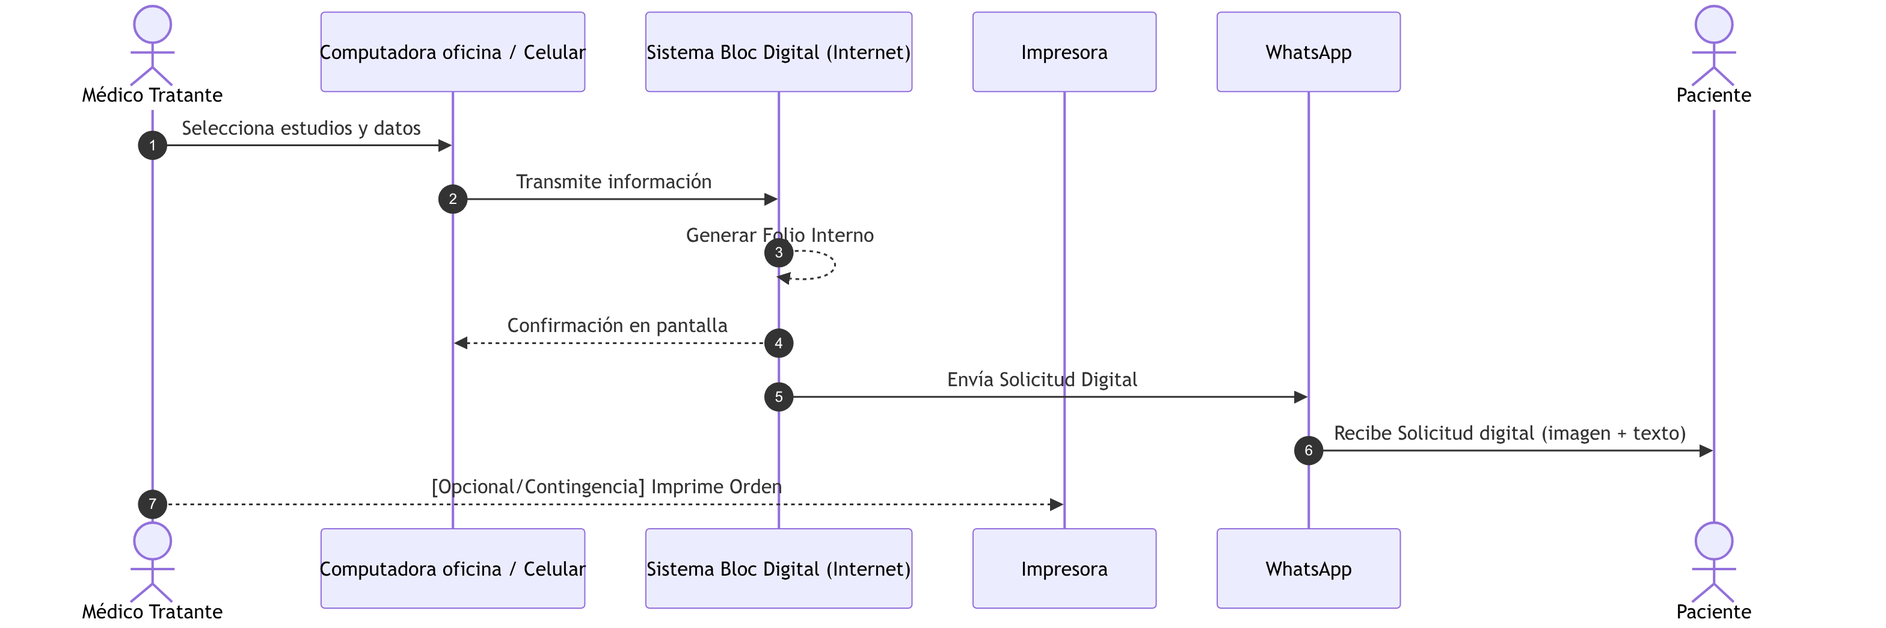
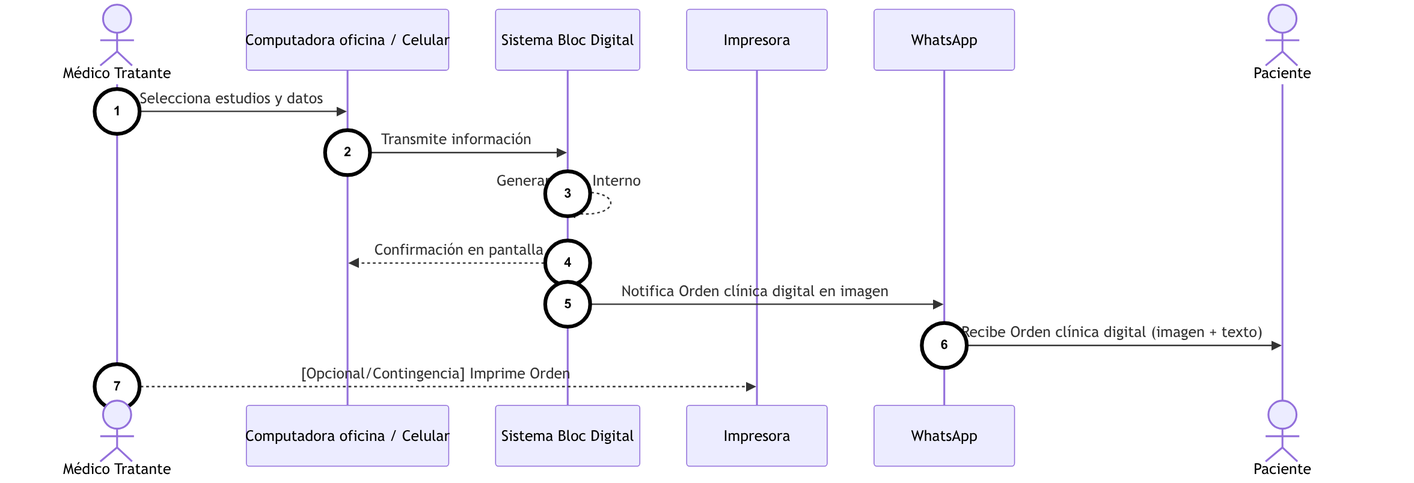
Version 2.6, Refinando scope de resumen y propuesta para laesh se homologaron terminos , se incluyeron 3 diagramas mas para WA.

diff --git a/portafolio-dev-2026/blocklabgd/contrato-laesh/v1.0/Resumen_Oferta_Servicios.md b/portafolio-dev-2026/blocklabgd/contrato-laesh/v1.0/Resumen_Oferta_Servicios.md
@@ -4,7 +4,7 @@
 
 Este documento presenta las cuatro modalidades de contratación disponibles. Las propuestas están diseñadas para permitir a "EL CLIENTE" elegir el alcance tecnológico y funcional que mejor se adapte a su presupuesto y urgencia operativa.
 
-*(Nota Legal: Independientemente de la opción elegida, toda la documentación contractual se ejecuta utilizando un Contrato Base Modular, el cual protege las garantías, previene retrasos y garantiza el cumplimiento fiscal para ambas partes).*
+*(Nota Legal: Independientemente de la opción elegida, toda la documentación contractual se ejecuta utilizando un Contrato Base Modular, el cual protege las garantías, previene retrasos y promueve el cumplimiento fiscal para ambas partes).*
 
 ---
 
@@ -26,20 +26,22 @@ Este documento presenta las cuatro modalidades de contratación disponibles. Las
 *   **Esquema de Pago (2 Hitos):** 50% Anticipo ($15,000) / 50% Firma de Aceptación ($15,000).
 *   **Tiempo de Entrega:** 2 Meses (60 días naturales).
 *   **Garantía:** 30 días naturales (Inicia a partir de la firma de Aceptación).
-*   **Alcance Funcional:** Todo lo de la Opción 1, **MÁS** un Portal de Pacientes. El personal deposita los resultados (PDF) en una carpeta de la computadora; el sistema los procesa y permite al paciente descargarlos en la página web. Adicionalmente, se envía la imagen del resultado de manera automática por WhatsApp. **Esto representa un ahorro de tiempo sustancial, ya que automatiza la entrega para absolutamente TODOS los pacientes del laboratorio (tanto de mostrador como referidos).**
-*   **Alcance Tecnológico:** Incluye una base de datos segura para almacenar historiales, vinculación directa a la **Plataforma Oficial de WhatsApp (Meta)** para el envío automatizado de los estudios, e instalación del software de **Bandeja Omnicanal (Chatwoot)** para la atención manual. Cuenta con mecanismo **"WhatsApp Stopper"** de seguridad financiera (Corte automático de comunicación con Meta para evitar sobrecostos).
+*   **Alcance Funcional:** Todo lo de la Opción 1, **MÁS** un Portal de Pacientes. El personal deposita los resultados (PDF) en una carpeta de la computadora; el sistema los procesa y permite al paciente descargarlos en la página web. Adicionalmente, se notifica la imagen del resultado de manera automática por WhatsApp. **Esto representa un ahorro de tiempo sustancial, ya que automatiza la entrega para la gran mayoría de los pacientes del laboratorio (tanto de mostrador como referidos).**
+*   **Alcance Tecnológico:** Incluye una base de datos segura para almacenar historiales, vinculación directa a la **Plataforma Oficial de WhatsApp (Meta)** para la notificación automatizada de los estudios, e instalación del software de **Bandeja Omnicanal (Chatwoot)** para la atención manual. Cuenta con mecanismo **"WhatsApp Stopper"** de seguridad financiera (Corte automático de comunicación con Meta para evitar sobrecostos).
+*   **Reglas del Canal WhatsApp:** El canal automatizado (API Oficial) está optimizado para la notificación de resultados y la atención de consultas entrantes. Debido a las políticas de protección anti-spam de Meta, la plataforma restringe el envío proactivo de mensajes libres si el paciente no ha interactuado en las últimas 24 horas. Para mitigar esta restricción, el sistema incluye botones de acción (Ej. `[Ver Horarios y Ubicación]`) en las notificaciones enviadas; si el paciente oprime el botón, habilita inmediatamente al personal de recepción para brindarle atención personalizada por hasta 24 horas. Este límite de tiempo se reinicia y te da otras 24 horas libres cada vez que el paciente vuelve a escribir. Para seguimientos proactivos no solicitados o campañas comerciales en frío, el laboratorio deberá utilizar su canal de WhatsApp tradicional de forma independiente.
  
 
 ---
 
-### Opción 3: Bloc Digital (Aplicación Web de Solicitudes)
+### Opción 3: Bloc Digital de Solicitudes Clínicas
 *   **Inversión Total:** $60,000.00 MXN
 *   **Esquema de Pago (3 Hitos):** 30% Anticipo ($18,000) / 30% Despliegue a Producción ($18,000) / 40% Firma de Aceptación ($24,000).
 *   **Tiempo de Entrega:** 2.5 Meses (75 días naturales).
 *   **Garantía:** 30 días naturales (Inicia a partir de la firma de Aceptación).
-*   **Alcance Funcional:** Automatización completa para crear y rastrear las órdenes de laboratorio. Incluye un catálogo de estudios, un portal rápido para que los doctores hagan la **solicitud médica digital**, y una pantalla donde pueden ver si sus pacientes ya fueron atendidos. Como único punto de contacto automatizado, **el paciente recibirá su orden digital en imagen directamente en su WhatsApp**. Adicionalmente, cuenta con un portal para que recepción controle el estatus (Remitido, En Atención, Resultados Listos, Cerrada) y un **Módulo de Reportes** con estadísticas básicas.
-*   **Consideración Operativa (Limitante):** Al no incluir el módulo de entrega automatizada, la recepción sigue obligada a entregar los resultados finales de forma 100% manual. **IMPORTANTE:** Debido a las reglas anti-spam de Meta (que bloquean el chat libre a las 24 horas si el paciente no responde), la recepcionista no podrá enviarle la imagen de resultado por el nuevo canal automatizado. Tendrá que enviarlos manualmente utilizando el **WhatsApp Web de los números actuales de la clínica**. Esto significa que el paciente recibirá su orden inicial desde el número nuevo automatizado, y sus resultados finales desde el número tradicional. Esta desconexión mantiene el cuello de botella en mostrador.
+*   **Alcance Funcional:** Automatización completa para crear y rastrear las órdenes de laboratorio. Incluye un catálogo de estudios, un portal rápido para que los médicos tratantes hagan la **Orden clínica digital**, y una pantalla donde pueden ver si sus pacientes ya fueron atendidos. Como único punto de contacto automatizado, **se le notificará al paciente su Orden clínica digital en imagen directamente en su WhatsApp**. Adicionalmente, cuenta con un portal para que recepción controle el estatus (Remitido, En Atención, Resultados Listos, Cerrada) y un **Módulo de Reportes** con estadísticas básicas.
+*   **Consideración Operativa (Limitante):** Al no incluir el módulo de entrega automatizada, la recepción sigue obligada a entregar los resultados finales de forma 100% manual. **IMPORTANTE:** Debido a las reglas anti-spam de Meta (que bloquean el chat libre a las 24 horas si el paciente no responde), la recepcionista no podrá notificarle el resultado de Orden clínica digital en imagen por el nuevo canal automatizado. Tendrá que notificarlos manualmente utilizando el **WhatsApp Web de los números actuales de la clínica**. Esto significa que el paciente recibirá su orden inicial desde el número nuevo automatizado, y sus resultados finales desde el número tradicional. Esta desconexión mantiene el cuello de botella en mostrador.
 *   **Alcance Tecnológico:** Sistema en la nube interno, perfiles de usuario, roles de seguridad, generación dinámica de PDFs, instalación de **Bandeja Omnicanal (Chatwoot)** y **"WhatsApp Stopper"** de seguridad financiera. *(Nota: Meta exige un dominio público para verificar empresas; si la clínica no tiene sitio web, se montará una "Landing Page" básica de contacto sin costo extra para cumplir este requisito).*
+*   **Reglas del Canal WhatsApp:** El canal automatizado (API Oficial) está optimizado para notificaciones y atención de consultas entrantes. Debido a las políticas anti-spam de Meta, se restringe el envío proactivo de mensajes libres si el paciente no ha interactuado en las últimas 24 horas. Para mitigar esta restricción, el sistema incluye botones de acción (Ej. `[Ver Horarios y Ubicación]`) en la notificación de la orden; si el paciente lo oprime, habilita inmediatamente a recepción para brindarle atención personalizada por hasta 24 horas. Este límite de tiempo se reinicia y te da otras 24 horas libres cada vez que el paciente vuelve a escribir. Para seguimientos proactivos o campañas comerciales en frío, se deberá utilizar el WhatsApp tradicional.
  
 
 ---
@@ -49,9 +51,10 @@ Este documento presenta las cuatro modalidades de contratación disponibles. Las
 *   **Esquema de Pago (3 Hitos):** 30% Anticipo ($24,000) / 30% Despliegue a Producción ($24,000) / 40% Firma de Aceptación ($32,000).
 *   **Tiempo de Entrega:** 4 Meses (120 días naturales).
 *   **Garantía:** 45 días naturales (Inicia a partir de la firma de Aceptación).
-*   **Alcance Funcional:** Solución completa que integra el **Bloc Digital** y el **Sitio Web PLUS (Resultados Automatizados)**. El doctor genera la orden, el paciente la recibe por WhatsApp y acude a la clínica. Al terminar los estudios, el químico guarda el PDF en su computadora, y el sistema envía el resultado al paciente por WhatsApp como imagen para su instantánea visualización, y lo sube en PDF a la web. Es un proceso automatizado que no pierde la calidez humana, ya que el sistema y la recepcionista comparten el mismo hilo de conversación en WhatsApp (modelo híbrido) para resolver cualquier duda del paciente de forma instantánea.
-*   **Beneficios y Ahorros (Solución Completa):** Esta opción resuelve el ciclo entero y elimina los dos cuellos de botella operativos de la clínica. Por un lado, acaba con los errores humanos causados por la mala letra en las recetas (Bloc Digital), y por el otro, libera a recepción de la tarea repetitiva de enviar resultados uno por uno (Sitio Web PLUS). Al facilitarle el trabajo a los doctores, es más probable que sigan enviando pacientes a la clínica; y al enviar automáticamente la imagen del resultado al paciente, se evitan las llamadas de seguimiento y las filas en mostrador. **La entrega automática por WhatsApp aplica para absolutamente TODOS los pacientes (referidos y de mostrador)**, sacándole el mayor provecho a la inversión.
+*   **Alcance Funcional:** Solución completa que integra el **Bloc Digital** y el **Sitio Web PLUS (Resultados Automatizados)**. El médico tratante genera la orden, el paciente la recibe por WhatsApp y acude a la clínica. Al terminar los estudios, el químico guarda el PDF en su computadora, y el sistema notifica el resultado al paciente por WhatsApp como imagen para su instantánea visualización, y lo sube en PDF a la web. Es un proceso automatizado que no pierde la calidez humana, ya que el sistema y la recepcionista comparten el mismo hilo de conversación en WhatsApp (modelo híbrido) para resolver cualquier duda del paciente de forma instantánea.
+*   **Beneficios y Ahorros (Solución Completa):** Esta opción resuelve el ciclo entero y mitiga los dos cuellos de botella operativos de la clínica. Por un lado, reduce los errores humanos causados por la mala letra en las recetas (Bloc Digital), y por el otro, libera a recepción de la tarea repetitiva de notificar resultados uno por uno (Sitio Web PLUS). Al facilitarle el trabajo a los médicos tratantes, es más probable que sigan enviando pacientes a la clínica; y al notificar automáticamente el resultado de Orden clínica digital en imagen al paciente, se evitan las llamadas de seguimiento y las filas en mostrador. **La notificación automática por WhatsApp aplica para la gran mayoría de los pacientes (referidos y de mostrador)**, sacándole el mayor provecho a la inversión.
 *   **Alcance Tecnológico:** Sistema integrado bajo una sola base de datos, un mismo canal oficial de WhatsApp (Protegido por **WhatsApp Stopper** para controlar costos), y la instalación del servidor de **Bandeja Omnicanal (Chatwoot)** para la gestión centralizada de mensajes en escritorio y celular.
+*   **Reglas del Canal WhatsApp:** El canal automatizado (API Oficial) está optimizado para la notificación de resultados y la atención de consultas entrantes. Debido a las políticas de protección anti-spam de Meta, la plataforma restringe el envío proactivo de mensajes libres si el paciente no ha interactuado en las últimas 24 horas. Para mitigar esta restricción, el sistema incluye botones de acción (Ej. `[Ver Horarios y Ubicación]`) en las notificaciones enviadas; si el paciente oprime el botón, habilita inmediatamente al personal de recepción para brindarle atención personalizada por hasta 24 horas. Este límite de tiempo se reinicia y te da otras 24 horas libres cada vez que el paciente vuelve a escribir. Para seguimientos proactivos no solicitados o campañas comerciales en frío, el laboratorio deberá utilizar su canal de WhatsApp tradicional de forma independiente.
  
 
 ---
@@ -61,11 +64,11 @@ Para facilitar la toma de decisiones, la siguiente tabla resume los pros, contra
 
 | Característica | Opción 1: Presencial | Opción 2: Web PLUS | Opción 3: Bloc Digital | Opción 4: Integral |
 | :--- | :--- | :--- | :--- | :--- |
-| **Objetivo Principal** | Presencia en Internet | Entrega Automática de Resultados | Estandarización de Órdenes | Solución Total Automatizada |
+| **Objetivo Principal** | Presencia Pública | Notificación de Resultados | Digitalización de Órdenes | Solución Automatizada Total |
 | **Inversión Desarrollo** | $10,000 MXN | $30,000 MXN | $60,000 MXN | **$80,000 MXN** *(Recomendado)* |
 | **Tiempo de Entrega** | 1 Mes | 2 Meses | 2.5 Meses | 4 Meses |
-| **Pros (Ventajas)** | Muy económico, rápido despliegue, atrae pacientes por internet. | Elimina el trabajo manual de enviar PDFs a pacientes uno por uno, ahorrando horas-hombre. | Elimina la mala letra de recetas, da trazabilidad a las muestras y profesionaliza al médico. | Agiliza significativamente el flujo. Automatiza la entrada de órdenes y la entrega final de resultados. |
-| **Contras (Limitantes)** | No resuelve ningún problema operativo interno de la clínica. | Recepción sigue descifrando recetas médicas de papel a mano en el mostrador. | Recepción sigue enviando resultados manualmente a los pacientes por WhatsApp. | Mayor tiempo de desarrollo y nivel de inversión inicial. |
+| **Pros (Ventajas)** | Económico, atrae pacientes por internet. | Automatiza la notificación del resultado de la Orden clínica digital en imagen, ahorrando múltiples horas diarias en recepción. | Reduce los errores por mala letra en recetas, profesionaliza al médico y notifica la Orden clínica digital en imagen. | Ciclo cerrado. Reduce errores y automatiza notificaciones (orden y resultado en imagen) bajo un mismo canal híbrido integrado. |
+| **Contras (Limitantes)** | No resuelve problemas operativos internos. | Recepción debe seguir descifrando recetas de papel. Sujeto a reglas de atención de 24h de Meta. | Recepción debe notificar el resultado final manualmente por su cuenta (Meta bloquea el canal a las 24h). El flujo queda desconectado en dos líneas de WhatsApp. | Mayor inversión inicial y el laboratorio asume los costos por consumo oficial de la API de Meta (~$50-$300/mes). |
 
 ---
 
@@ -81,16 +84,22 @@ Para brindar máxima claridad, la siguiente tabla resume los enlaces (URLs) que 
 
 ---
 
+# SECCIÓN DE ANEXOS Y CONSIDERACIONES DETALLADAS
+*La siguiente sección profundiza en las normativas, riesgos, garantías y estructura legal que amparan la ejecución de cualquiera de las opciones listadas en el Resumen Ejecutivo superior.*
+
+---
+
 ## Condiciones y Requisitos Generales (Aplicables a todos los proyectos)
 *   **Modelo de Entrega y Estabilización:** Independientemente de la opción elegida, los proyectos incluyen una fase de **hasta 15 días naturales de Estabilización** (pruebas en vivo y capacitación) que corre posterior al despliegue. Por regla general, al concluir estos 15 días (o antes, si ambas partes determinan de común acuerdo que el sistema opera de forma correcta y completa) se firma el Acta de Aceptación, liquidando el pago final y arrancando la Garantía correspondiente.
 *   **Presupuesto para Proveedores de Terceros (Infraestructura):** Al ser un ecosistema 100% en la Nube (Cloud), el sistema operará en servidores contratados a su nombre, garantizándole total independencia. **Como parte de esta oferta de servicios, mi función es apoyarle como guía consultor paso a paso para realizar estas compras con los proveedores correspondientes, asegurando que adquiera exactamente lo necesario al mejor precio.** Es obligación crítica de "EL CLIENTE" garantizar una conexión a internet estable en sus instalaciones. *Costos estimados (pagos directos al proveedor mediante domiciliación bancaria):*
     *   **Servidor en la Nube (Hostinger):** VPS KVM 4, necesario para Opciones 2, 3 y 4 (~$3,000 a $4,000 MXN Anuales). La Opción 1 solo exige un servidor básico de ~$500 MXN anuales.
     *   **Dominio de Internet (.mx):** Nombre público de su página web (`laesh.mx`), necesario para todas las opciones (~$600 MXN Anuales).
     *   **Chip SIM (Nuevo Número Móvil):** Línea celular virgen dedicada exclusivamente para el canal automatizado (~$200 MXN pago único o recargas esporádicas).
-    *   **Consumo API Oficial (WhatsApp/Meta):** **Importante:** Meta no cobra por tener el número SIM conectado (cero renta fija por línea). Meta cobra exclusivamente "por consumo" bajo la siguiente regla: **Cuando la interacción del sistema es enviar automáticamente al paciente su imagen de resultados o su imagen de orden digital, Meta lo cataloga como una "Conversación de Utilidad" (Proactiva), las cuales se cobran (aprox. $0.15 a $0.20 MXN) desde el mensaje #1.** Para habilitar este servicio, Meta exige registrar una Tarjeta de Crédito/Débito corporativa en su plataforma, de la cual domiciliará automáticamente este consumo (~$50 a $300 MXN mensuales, fuertemente protegidos por nuestro algoritmo *WhatsApp Stopper* que corta el sistema antes de generar facturas altas).
+    *   **Consumo API Oficial (WhatsApp/Meta):** **Importante:** Meta no cobra por tener el número SIM conectado (cero renta fija por línea). Meta cobra exclusivamente "por consumo" bajo la siguiente regla: **Cuando la interacción del sistema es notificar automáticamente al paciente su resultado de Orden clínica digital en imagen o su Orden clínica digital en imagen, Meta lo cataloga como una "Conversación de Utilidad" (Proactiva), las cuales se cobran (aprox. $0.15 a $0.20 MXN) desde el mensaje #1.** Para habilitar este servicio, Meta exige registrar una Tarjeta de Crédito/Débito corporativa en su plataforma, de la cual domiciliará automáticamente este consumo (~$50 a $300 MXN mensuales, fuertemente protegidos por nuestro algoritmo *WhatsApp Stopper* que corta el sistema antes de generar facturas altas).
 *   **Titularidad y Verificación Empresarial (WhatsApp):** Por estrictas normativas de protección de datos médicos (INAI) y políticas anti-suplantación de Meta, la cuenta oficial de WhatsApp y su método de pago deben registrarse obligatoriamente a nombre del laboratorio. Para ello, "EL CLIENTE" deberá comprobar la identidad de su negocio ante Meta enviando su **Constancia de Situación Fiscal** y **Comprobante de Domicilio**. Esta titularidad directa protege legalmente a la clínica, garantizando que sea la única dueña y responsable del canal por donde viaja la salud de sus pacientes.
-*   **Operatividad de WhatsApp (Nuevo Número vs Números Actuales):** Para garantizar estabilidad técnica y no perder historiales previos, **el ecosistema utilizará obligatoriamente un NUEVO número telefónico**. La Bandeja Omnicanal (Chatwoot) gestionará única y exclusivamente esta nueva línea, compartiendo el mismo hilo de conversación entre el bot del laboratorio y la recepcionista humana. **Los números actuales de la clínica NO se conectarán al sistema**; el personal de recepción seguirá operándolos de forma independiente como lo hace hoy (ej. usando dos pestañas en su navegador: una con su WhatsApp Web tradicional para números actuales, y otra con la Bandeja Chatwoot para el nuevo canal automatizado).
+*   **Operatividad de WhatsApp (Nuevo Número vs Números Actuales):** Para garantizar estabilidad técnica y no perder historiales previos, **el ecosistema utilizará obligatoriamente un NUEVO número telefónico**. La Bandeja Omnicanal (Chatwoot) gestionará única y exclusivamente esta nueva línea, compartiendo el mismo hilo de conversación entre el Notificador automatizado para WhatsApp y la recepcionista humana. **Los números actuales de la clínica NO se conectarán al sistema**; el personal de recepción seguirá operándolos de forma independiente como lo hace hoy (ej. usando dos pestañas en su navegador: una con su WhatsApp Web tradicional para números actuales, y otra con la Bandeja Chatwoot para el nuevo canal automatizado).
 *   **Funcionalidades Fuera de Alcance:** A fin de mantener un ecosistema eficiente y sin ambigüedades, queda expresamente fuera de todas las opciones planteadas (4) el desarrollo de:
+    *   **Campañas de Marketing Masivo:** El canal API implementado es estrictamente para atención al cliente y notificaciones transaccionales. Si el cliente utiliza el canal automatizado para realizar ventas en frío o enviar promociones no solicitadas, Meta bloqueará permanentemente el servicio. Las llamadas telefónicas regulares (celulares o de voz por la app) **no** notifican a los servidores de Meta, por lo que quedan fuera de la trazabilidad y operatividad del sistema para abrir ventanas de atención.
     *   Aplicaciones móviles nativas instalables desde tiendas (App Store/Google Play). Todo el ecosistema opera de manera 100% web.
     *   Chatbots automáticos para responder dudas médicas, de precios o dar servicio al cliente vía WhatsApp.
     *   Punto de Venta (Terminales), pasarelas de pago con tarjeta en línea o integraciones de control de caja.
@@ -134,6 +143,8 @@ Para garantizar la viabilidad y éxito del proyecto, se identifican los siguient
 ## Estructura Documental
 Para garantizar total transparencia técnica y comercial, este proyecto se rige por un conjunto de 8 documentos modulares complementarios. *(Nota: En esta etapa temprana no es necesario imprimir ni revisar la totalidad de estos documentos, pero es fundamental que conozca su existencia como respaldo y protección a su inversión).*
 
+**Nota sobre Políticas de Uso:** *(Para visualizar a detalle las reglas de interacción y los flujos de comunicación permitidos por Meta detallados anteriormente, consulte la sección "Casos de Uso de la Bandeja Omnicanal" en el Anexo Técnico, así como el Anexo Visual de Flujos Operativos).*
+
 | Archivo Legal / Técnico | Abstracto del Contenido |
 | :--- | :--- |
 | **1. Resumen_Oferta_Servicios.md** | Documento rector (el actual) que compara opciones, costos, infraestructura y responsabilidades. |
@@ -143,6 +154,6 @@ Para garantizar total transparencia técnica y comercial, este proyecto se rige 
 | **5. Anexo_A_Paquete_Integral.md** | Especificación técnica para la Opción 2 y 4 (Módulo de resultados automatizados y Chatwoot). |
 | **6. Contrato_Administracion_Servidor.md** | Póliza (opcional) para respaldos automáticos, parches de seguridad y monitoreo de la nube. |
 | **7. Anexo_B_Soporte_Produccion.md** | Póliza (opcional) de mantenimiento y corrección de bugs tras finalizar los periodos de garantía gratuitos. |
-| **8. Anexo_Visual_Flujos_Operativos.md** | Diagramas esquemáticos que ilustran visualmente el funcionamiento de la clínica paso a paso. |
+| **8. Anexo_Visual_Flujos_Operativos.md** | Diagramas esquemáticos que ilustran visualmente el funcionamiento de la clínica paso a paso, incluyendo los ciclos de vida y reglas operativas de la API de WhatsApp. |
 
 

diff --git a/portafolio-dev-2026/blocklabgd/contrato-laesh/v1.0/Anexo_A_Paquete_Integral.md b/portafolio-dev-2026/blocklabgd/contrato-laesh/v1.0/Anexo_A_Paquete_Integral.md
@@ -1,10 +1,10 @@
 # ANEXO A — ALCANCE DEL PROYECTO (PAQUETE INTEGRAL)
-## Proyecto: Bloc Digital + Sitio Web y Portal de Resultados Automatizado
+## Proyecto: Bloc Digital de Solicitudes Clínicas + Sitio Web y Portal de Resultados Automatizado
 
 Este anexo forma parte integrante del Contrato de Prestación de Servicios Profesionales celebrado entre "EL PRESTADOR" y "EL CLIENTE". Ampara legalmente la ejecución de la **Opción 4 (Paquete Integral Automatizado)**.
 
 **1. Descripción general del sistema**
-"EL SISTEMA" es una solución completa que integra una página web, un portal para descargar resultados y el Bloc Digital para que los doctores creen solicitudes médicas. Todo está conectado para enviar notificaciones automáticas por WhatsApp a los pacientes.
+"EL SISTEMA" es una solución completa que integra una página web, un portal para descargar resultados y el Bloc Digital para que los médicos tratantes creen solicitudes médicas. Todo está conectado para enviar notificaciones automáticas por WhatsApp a los pacientes.
 
 **2. Fases incluidas (Cronología del Proyecto)**
 1. Análisis de requerimientos, diseño UI/UX unificado y modelado de base de datos.
@@ -21,21 +21,26 @@ Este anexo forma parte integrante del Contrato de Prestación de Servicios Profe
 | **Sitio Web** | Página sencilla de 5 secciones (Inicio, Nosotros, Estudios, Contacto con mapa, Privacidad). Adaptable a celulares, optimizada para Google y con botón directo de WhatsApp. |
 | **Portal de Pacientes** | Área web para que los pacientes descarguen sus resultados en PDF (últimos 90 días). Acceso mediante Teléfono + Folio. |
 | **Catálogo de Estudios** | Pantalla para agregar o editar estudios médicos y precios. Incluye una carga masiva inicial (desde Excel). |
-| **Portal Médico (Captura)** | Pantalla para que el doctor cree una solicitud médica. Le avisa inmediatamente al paciente por WhatsApp. |
-| **Portal de Médicos (Seguimiento)** | Pantalla privada donde el doctor puede ver si los pacientes que mandó ya fueron atendidos en el laboratorio. |
+| **Portal Médico (Captura)** | Pantalla para que el médico tratante cree una solicitud médica. Le avisa inmediatamente al paciente por WhatsApp. |
+| **Portal de Médicos (Seguimiento)** | Pantalla privada donde el médico tratante puede ver si los pacientes que mandó ya fueron atendidos en el laboratorio. |
 | **Portal Interno (Recepción)** | Pantalla para la recepcionista. Muestra solicitudes entrantes y permite marcar el estatus "En Atención". |
 | **Módulo de Reportes** | Pantalla con estadísticas básicas del laboratorio. *No incluye módulos financieros, calculadoras de comisiones ni monederos.* |
 | **Automatización WhatsApp (Resultados)** | El personal deposita los PDFs diarios en una carpeta local; el servidor los asocia al paciente, los convierte a imagen (JPG/PNG) y los envía por WhatsApp automáticamente. (Aplica universalmente a pacientes referidos y de mostrador). |
 | **Prueba de Concepto y Contingencia** | Previo a la salida, se realizará una prueba técnica para intentar extraer el `#Folio` o teléfono directamente del texto interior del PDF. De resultar inviable/inestable por el formato nativo del laboratorio, se aplicará invariablemente la regla de contingencia: el personal deberá renombrar manualmente cada archivo con su `#Folio`. |
 | **Controles y Caducidad** | Caducidad a 30 días si el paciente no asiste a la clínica. "WhatsApp Stopper" de seguridad limitando a $6,000 MXN mensuales el consumo en la API de Meta. |
 
-**4. Fuera de Alcance y Responsabilidades de Terceros**
+**4. Políticas de Uso de la Bandeja Omnicanal (Regla 24h)**
+Para cumplir con las políticas anti-spam de Meta (WhatsApp) y garantizar la operatividad de la línea, aplican las siguientes reglas de comunicación:
+*   **Apertura de Ventana (24h):** El sistema puede notificar resultados automáticamente en cualquier momento. Sin embargo, para que el personal de recepción (humano) pueda enviar mensajes de *texto libre* al paciente (seguimiento, indicaciones), el paciente debe iniciar la interacción primero (Ej. escribiendo una duda o presionando el botón `[Ver Horarios y Ubicación]` incluido en las notificaciones).
+*   **Restricción de Marketing:** Si el laboratorio utiliza el canal automatizado para enviar campañas comerciales masivas, realizar ventas en frío o contactar pacientes fuera de la ventana de 24 horas, Meta suspenderá permanentemente la línea. Las llamadas telefónicas (celulares o de voz por la app) no abren la ventana de 24 horas.
+
+**5. Fuera de Alcance y Responsabilidades de Terceros**
 Queda fuera de alcance el control financiero, facturación electrónica (CFDI), creación de buzones de correo corporativo para empleados, chatbots para atención al cliente, y la redacción/asesoría legal del Aviso de Privacidad (cumplimiento INAI para datos en salud). La solución requiere que "EL CLIENTE" mantenga una conexión a internet estable en sus sucursales, provea y mantenga al corriente de pago un servidor **(Plan KVM 4 de Hostinger)**, la renovación de sus dominios, un **Nuevo Número Telefónico Dedicado Móvil (Chip SIM)**, el consumo en Meta Platforms, y que asuma la **Titularidad y Verificación Empresarial ante Meta** (aportando su Constancia Fiscal y Comprobante de Domicilio para asegurar la propiedad legal del canal de comunicación).
 
-**5. Calendario y Plazo de Entrega**
+**6. Calendario y Plazo de Entrega**
 El ecosistema tendrá un plazo máximo de desarrollo de **4 Meses (120 días naturales)** contados a partir de que "EL CLIENTE" entregue toda la información requerida (textos, logotipos, accesos).
 
-**6. Precio, Desglose de Pagos y Facturación**
+**7. Precio, Desglose de Pagos y Facturación**
 El precio total del Paquete Integral es de **$80,000.00 MXN (Netos)**, pagadero bajo el siguiente esquema:
 
 | Hito de Facturación | Porcentaje | Monto a Pagar | Condición de Entrega / Cobro |

diff --git a/portafolio-dev-2026/blocklabgd/contrato-laesh/v1.0/Anexo_Visual_Flujos_Operativos.md b/portafolio-dev-2026/blocklabgd/contrato-laesh/v1.0/Anexo_Visual_Flujos_Operativos.md
@@ -33,7 +33,7 @@ h1, h3 {
   
   <br><br><br>
   <div style="margin-top: 30px; padding: 15px; text-align: left; background-color: #f9f9f9; border-radius: 8px;">
-    <p style="margin-bottom: 15px; font-family: Arial, sans-serif;"><strong>Contexto:</strong> Este diagrama expresa el flujo inicial de captación. Ilustra cómo el Médico Tratante emite la orden de estudios y cómo interactúa el sistema en la nube para procesarla y hacerle llegar al Paciente su solicitud digital por WhatsApp, atrayéndolo hacia el laboratorio.</p>
+    <p style="margin-bottom: 15px; font-family: Arial, sans-serif;"><strong>Contexto:</strong> Este diagrama expresa el flujo inicial de captación. Ilustra cómo el Médico Tratante emite la orden de estudios y cómo interactúa el sistema en la nube para procesarla y hacerle llegar al Paciente su Orden clínica digital en imagen por WhatsApp, atrayéndolo hacia el laboratorio.</p>
     <table style="width: 100%; border-collapse: collapse; font-family: Arial, sans-serif; font-size: 14px;">
       <tr>
         <td style="width: 50%; vertical-align: top; padding: 10px; border: 1px solid #ddd;">
@@ -44,7 +44,7 @@ h1, h3 {
         </td>
         <td style="width: 50%; vertical-align: top; padding: 10px; border: 1px solid #ddd;">
           <strong>💎 Puntos de Valor del Flujo</strong><br><br>
-          • <strong>Cero Errores:</strong> Elimina la mala letra en recetas de papel.<br>
+          • <strong>Menos Errores:</strong> Mitiga la mala letra en recetas de papel.<br>
           • <strong>Atracción:</strong> El paciente recibe una solicitud formal con la marca del laboratorio en su celular.<br>
           • <strong>Trazabilidad:</strong> Genera un Folio único desde el primer instante.
         </td>
@@ -62,7 +62,7 @@ h1, h3 {
   
   <br><br><br>
   <div style="margin-top: 30px; padding: 15px; text-align: left; background-color: #f9f9f9; border-radius: 8px;">
-    <p style="margin-bottom: 15px; font-family: Arial, sans-serif;"><strong>Contexto:</strong> Este diagrama muestra la llegada del paciente a la clínica y la interacción física en mostrador. Describe cómo el personal de Recepción localiza la orden (previamente capturada por el doctor) para agilizar la toma de muestras y el cobro.</p>
+    <p style="margin-bottom: 15px; font-family: Arial, sans-serif;"><strong>Contexto:</strong> Este diagrama muestra la llegada del paciente a la clínica y la interacción física en mostrador. Describe cómo el personal de Recepción localiza la orden (previamente capturada por el médico tratante) para agilizar la toma de muestras y el cobro.</p>
     <table style="width: 100%; border-collapse: collapse; font-family: Arial, sans-serif; font-size: 14px;">
       <tr>
         <td style="width: 50%; vertical-align: top; padding: 10px; border: 1px solid #ddd;">
@@ -75,7 +75,7 @@ h1, h3 {
           <strong>💎 Puntos de Valor del Flujo</strong><br><br>
           • <strong>Velocidad en Mostrador:</strong> Evita volver a teclear todos los estudios del paciente; todo ya viene pre-cargado.<br>
           • <strong>Fluidez Operativa:</strong> Transición transparente hacia su software de caja/LIS existente.<br>
-          • <strong>Información al Médico:</strong> El doctor sabe al instante que su paciente ya llegó a la clínica.
+          • <strong>Información al Médico:</strong> El médico tratante sabe al instante que su paciente ya llegó a la clínica.
         </td>
       </tr>
     </table>
@@ -91,7 +91,7 @@ h1, h3 {
   
   <br><br><br>
   <div style="margin-top: 30px; padding: 15px; text-align: left; background-color: #f9f9f9; border-radius: 8px;">
-    <p style="margin-bottom: 15px; font-family: Arial, sans-serif;"><strong>Contexto:</strong> Este diagrama ilustra el potente ciclo de salida de los resultados y el modelo omnicanal híbrido. Expone cómo el Químico deposita el PDF final y cómo el ecosistema automatizado lo lee y distribuye instantáneamente al portal web y al WhatsApp del paciente.</p>
+    <p style="margin-bottom: 15px; font-family: Arial, sans-serif;"><strong>Contexto:</strong> Este diagrama ilustra el potente ciclo de salida de los resultados y el modelo omnicanal híbrido. Expone cómo el Químico deposita el PDF final y cómo el Notificador automatizado para WhatsApp lo lee y distribuye instantáneamente al portal web y al celular del paciente.</p>
     <table style="width: 100%; border-collapse: collapse; font-family: Arial, sans-serif; font-size: 14px;">
       <tr>
         <td style="width: 50%; vertical-align: top; padding: 10px; border: 1px solid #ddd;">
@@ -111,3 +111,28 @@ h1, h3 {
   </div>
 
 </div>
+
+<div style="page-break-before: always; clear: both;"></div>
+
+<div class="diagram-wrapper">
+  <h1>ANEXO VISUAL: Casos de Uso de la Bandeja Omnicanal (Reglas de Meta)</h1>
+  <p style="text-align: left; font-family: Arial, sans-serif; font-size: 14px; margin-bottom: 20px;">
+    Los siguientes diagramas ilustran cómo operan las políticas Anti-Spam de Meta (Regla de la Ventana de 24 horas). El Notificador automatizado para WhatsApp puede enviar <strong>notificaciones (plantillas)</strong> en cualquier momento, pero el personal humano (Recepción) solo puede responder con <strong>texto libre</strong> si el paciente realiza una interacción (abre la ventana).
+  </p>
+</div>
+
+<h3 style="text-align: left;">Flujo 1: Interacción por Consulta Directa</h3>
+
+<img src="./diagramas1.0/Diagrama_4_Flujo1_HD.png" alt="Flujo 1" />
+
+<br><br>
+
+<h3 style="text-align: left;">Flujo 2: Interacción por Botón de Acción (Mitigación)</h3>
+
+<img src="./diagramas1.0/Diagrama_5_Flujo2_HD.png" alt="Flujo 2" />
+
+<br><br>
+
+<h3 style="text-align: left;">Flujo 3: Interacción por Seguimiento (Paciente Inicia)</h3>
+
+<img src="./diagramas1.0/Diagrama_6_Flujo3_HD.png" alt="Flujo 3" />

diff --git a/portafolio-dev-2026/blocklabgd/contrato-laesh/v1.0/Anexo_A_Bloc_Digital.md b/portafolio-dev-2026/blocklabgd/contrato-laesh/v1.0/Anexo_A_Bloc_Digital.md
@@ -1,5 +1,5 @@
 # ANEXO A — ALCANCE DEL PROYECTO
-## Proyecto: Bloc Digital de Solicitudes de Análisis Clínicos
+## Proyecto: Bloc Digital de Solicitudes Clínicas
 
 Este anexo forma parte integrante del Contrato de Prestación de Servicios Profesionales celebrado entre "EL PRESTADOR" y "EL CLIENTE".
 
@@ -30,11 +30,11 @@ A continuación se detalla el comportamiento del sistema para evitar ambigüedad
 | Módulo del Sistema | Descripción de la Funcionalidad (Alcance Exacto) |
 | :--- | :--- |
 | **Catálogo de Estudios** | Administración para agregar o editar estudios médicos y precios. Incluye una carga masiva inicial por parte de "EL PRESTADOR" mediante un archivo Excel provisto por "EL CLIENTE". |
-| **Portal Médico (Captura)** | Pantalla para que el doctor cree una solicitud médica (Nombre, teléfono, estudios). |
+| **Portal Médico (Captura)** | Pantalla para que el médico tratante cree una solicitud médica (Nombre, teléfono, estudios). |
 | **Notificación Inmediata** | Al guardar la orden, el sistema le envía inmediatamente la solicitud en imagen al WhatsApp del paciente. |
-| **Portal de Seguimiento** | Pantalla segura donde el doctor consulta si los pacientes que mandó al laboratorio ya fueron atendidos. |
+| **Portal de Seguimiento** | Pantalla segura donde el médico tratante consulta si los pacientes que mandó al laboratorio ya fueron atendidos. |
 | **Portal Interno (Clínica)** | Pantalla para la recepcionista. Muestra notificaciones de nuevas solicitudes, permite buscar pacientes y marcar su estatus como "En Atención" cuando el paciente llega a pagar. |
-| **Módulo de Reportes** | Pantalla con estadísticas básicas (ej. cantidad de solicitudes creadas por doctor). *No incluye cálculos financieros, comisiones ni gestión de honorarios.* |
+| **Módulo de Reportes** | Pantalla con estadísticas básicas (ej. cantidad de solicitudes creadas por médico tratante). *No incluye cálculos financieros, comisiones ni gestión de honorarios.* |
 | **Caducidad Automática** | Regla de negocio en el servidor que cierra/caduca automáticamente las solicitudes médicas si el paciente no acude a la clínica en un plazo de 30 días (configurable). |
 | **Compatibilidad de Dispositivos** | El **Portal Médico** cuenta con adaptabilidad para celulares, tablets y computadoras. El resto de portales (incluyendo la Recepción Clínica) están diseñados para computadoras de escritorio (Windows 10/11 o macOS) usando Google Chrome o Apple Safari. |
 
@@ -44,8 +44,13 @@ El sistema incluirá un módulo especializado para la notificación automática 
 *   **Alertas Tempranas:** Envío automático de correos a "EL CLIENTE" al alcanzar el 90% ($5,400 MXN) del presupuesto mensual.
 *   **Bloqueo Automático:** Al llegar al límite, la aplicación congelará las peticiones de salida a WhatsApp para evitar sobrecostos, reactivando el servicio el primer día del siguiente mes o por ampliación presupuestal.
 *   **Contingencia en Interfaz Médica:** Al activarse el bloqueo, se mostrará al médico el aviso *"Canal de WhatsApp fuera de servicio temporalmente por límite mensual"*. El botón de envío se deshabilitará y la aplicación forzará el guardado e impresión física (PDF) para garantizar la continuidad del laboratorio.
-*   **Reglas de Interacción y Continuidad:** El envío automatizado se limita al **envío de la solicitud médica digital** al paciente. Chatwoot gestionará única y exclusivamente esta NUEVA línea, donde convivirán el bot automatizado y la recepcionista humana atendiendo este canal. **Los números actuales de la clínica NO se conectan al sistema**; el personal los operará de forma paralela y separada mediante su WhatsApp Web tradicional (requiriendo operar a dos pestañas en su navegador: Chatwoot + WhatsApp Web).
+*   **Reglas de Interacción y Continuidad:** El flujo automatizado se limita a **notificar la Orden clínica digital en imagen** al paciente. Chatwoot gestionará única y exclusivamente esta NUEVA línea, donde convivirán el Notificador automatizado para WhatsApp y la recepcionista humana atendiendo este canal. **Los números actuales de la clínica NO se conectan al sistema**; el personal los operará de forma paralela y separada mediante su WhatsApp Web tradicional (requiriendo operar a dos pestañas en su navegador: Chatwoot + WhatsApp Web).
 *   **Requisito de Verificación (Landing Page):** Dado que Meta exige tener un sitio web público para verificar empresas, en caso de que "EL CLIENTE" no disponga de uno, se le instalará temporalmente una página de aterrizaje (Landing Page) básica con sus datos de contacto sin costo extra, exclusivamente para cumplir el trámite.
+
+**4.1 Políticas de Uso de la Bandeja Omnicanal (Regla 24h)**
+Para cumplir con las políticas anti-spam de Meta (WhatsApp) y garantizar la operatividad de la línea, aplican las siguientes reglas de comunicación:
+*   **Apertura de Ventana (24h):** El sistema puede notificar órdenes médicas automáticamente en cualquier momento. Sin embargo, para que el personal de recepción (humano) pueda enviar mensajes de *texto libre* al paciente (seguimiento, indicaciones), el paciente debe iniciar la interacción primero (Ej. escribiendo una duda o presionando el botón `[Ver Horarios y Ubicación]` incluido en la notificación de la orden).
+*   **Restricción de Marketing:** Si el laboratorio utiliza el canal automatizado para enviar campañas comerciales masivas, realizar ventas en frío o contactar pacientes fuera de la ventana de 24 horas, Meta suspenderá permanentemente la línea. Las llamadas telefónicas (celulares o de voz por la app) no abren la ventana de 24 horas.
 
 **5. Fuera de alcance**
 Quedan excluidas de este proyecto las siguientes funcionalidades para evitar ambigüedad:

diff --git a/portafolio-dev-2026/blocklabgd/contrato-laesh/v1.0/Analisis_Tecnico_WhatsApp_Gaps.md b/portafolio-dev-2026/blocklabgd/contrato-laesh/v1.0/Analisis_Tecnico_WhatsApp_Gaps.md
@@ -53,7 +53,7 @@ Meta aplica políticas estrictas contra la suplantación de identidad (Impersona
 
 ## 5. Aislamiento de Números (API Oficial vs Uso Diario)
 
-**El Gap:** El cliente frecuentemente solicita que el bot/sistema se conecte a los números de WhatsApp que la clínica "ya usa" para no perder a sus contactos. 
+**El Gap:** El cliente frecuentemente solicita que el sistema automatizado se conecte a los números de WhatsApp que la clínica "ya usa" para no perder a sus contactos. 
 
 **El Riesgo Operativo:**
 Migrar un número actual a la API Oficial de Meta **borra irreversiblemente todo el historial de chats** y desactiva el uso de la aplicación móvil (WhatsApp Business) en el teléfono físico. Si se opta por no usar la API Oficial y conectar el número actual a Chatwoot vía un puente no oficial (ej. escanear código QR con *Evolution API*), el desarrollador asume un riesgo inmenso de desconexiones constantes, fallas de sincronización y baneos masivos, esclavizándose a dar soporte técnico gratuito.
@@ -61,7 +61,7 @@ Migrar un número actual a la API Oficial de Meta **borra irreversiblemente todo
 **La Regla Arquitectónica:**
 *   Chatwoot operará **única y exclusivamente con un NUEVO número de teléfono** (chip dedicado) mediante la API Oficial de Meta. Este será el "Canal de Resultados Automatizados".
 *   Las recepcionistas seguirán operando los números actuales de la clínica directamente desde sus celulares o en la pestaña de WhatsApp Web tradicional.
-*   **Modus Operandi Híbrido:** La recepcionista abrirá dos pestañas en su PC: 1) Su WhatsApp Web tradicional (para platicar como siempre) y 2) La bandeja de Chatwoot (para interactuar en el nuevo canal donde el bot manda los folios).
+*   **Modus Operandi Híbrido:** La recepcionista abrirá dos pestañas en su PC: 1) Su WhatsApp Web tradicional (para platicar como siempre) y 2) La bandeja de Chatwoot (para interactuar en el nuevo canal donde el Notificador automatizado para WhatsApp envía las órdenes).
 
 ---
 

diff --git a/portafolio-dev-2026/blocklabgd/contrato-laesh/v1.0/Anexo_B_Soporte_Produccion.md b/portafolio-dev-2026/blocklabgd/contrato-laesh/v1.0/Anexo_B_Soporte_Produccion.md
@@ -29,7 +29,7 @@ Cualquier requerimiento que exceda el alcance de este soporte anual ("Cambio May
 Por los servicios de soporte post-garantía aquí descritos, "EL CLIENTE" pagará a "EL PRESTADOR" una **Cuota Anual de $8,000.00 MXN (Netos)**.
 
 **5. Vigencia**
-Este Anexo B tiene una vigencia de **doce (12) meses** contados a partir de su fecha de inicio o de la fecha de terminación del Periodo de Garantía original. Se sugiere ampliamente su contratación íntegra durante el primer año de operaciones para asegurar la correcta adopción tecnológica del personal. A partir del segundo año, la renovación es totalmente opcional para "EL CLIENTE", pudiendo renovarse anualmente, transicionar a un esquema mensual, o cancelarse mediante notificación con al menos treinta (30) días de anticipación.
+Este Anexo B tiene una vigencia de **doce (12) meses** contados a partir de su fecha de inicio o de la fecha de terminación del Periodo de Garantía original. Se sugiere ampliamente su contratación íntegra durante el primer año de operaciones para facilitar la correcta adopción tecnológica del personal. A partir del segundo año, la renovación es totalmente opcional para "EL CLIENTE", pudiendo renovarse anualmente, transicionar a un esquema mensual, o cancelarse mediante notificación con al menos treinta (30) días de anticipación.
 
 **Actualización por Inflación:** En cada renovación anual automática, la Cuota Anual se actualizará y ajustará conforme a la inflación, tomando como referencia el Índice Nacional de Precios al Consumidor (INPC) publicado por el INEGI del año inmediato anterior.
 

diff --git a/portafolio-dev-2026/blocklabgd/contrato-laesh/v1.0/diagramas1.0/diagramas_secuencia_monitos.md b/portafolio-dev-2026/blocklabgd/contrato-laesh/v1.0/diagramas1.0/diagramas_secuencia_monitos.md
@@ -20,7 +20,7 @@ sequenceDiagram
     Medico-->>Impresora: [Opcional/Contingencia] Imprime Orden
 ```
 
-### Diagrama 2: Operación en Recepción (Cero errores)
+### Diagrama 2: Operación en Recepción (Menos errores)
 ```mermaid
 sequenceDiagram
     autonumber

diff --git a/portafolio-dev-2026/blocklabgd/contrato-laesh/v1.0/diagramas1.0/diagramas_flujo_fa.md b/portafolio-dev-2026/blocklabgd/contrato-laesh/v1.0/diagramas1.0/diagramas_flujo_fa.md
@@ -14,7 +14,7 @@ flowchart LR
     end
     
     subgraph Nube ["Plataforma Central"]
-        S[(fa:fa-cloud Bloc Digital LAESH)]
+        S[(fa:fa-cloud Sistema Bloc Digital)]
     end
     
     subgraph EntornoPaciente ["Entorno del Paciente"]
